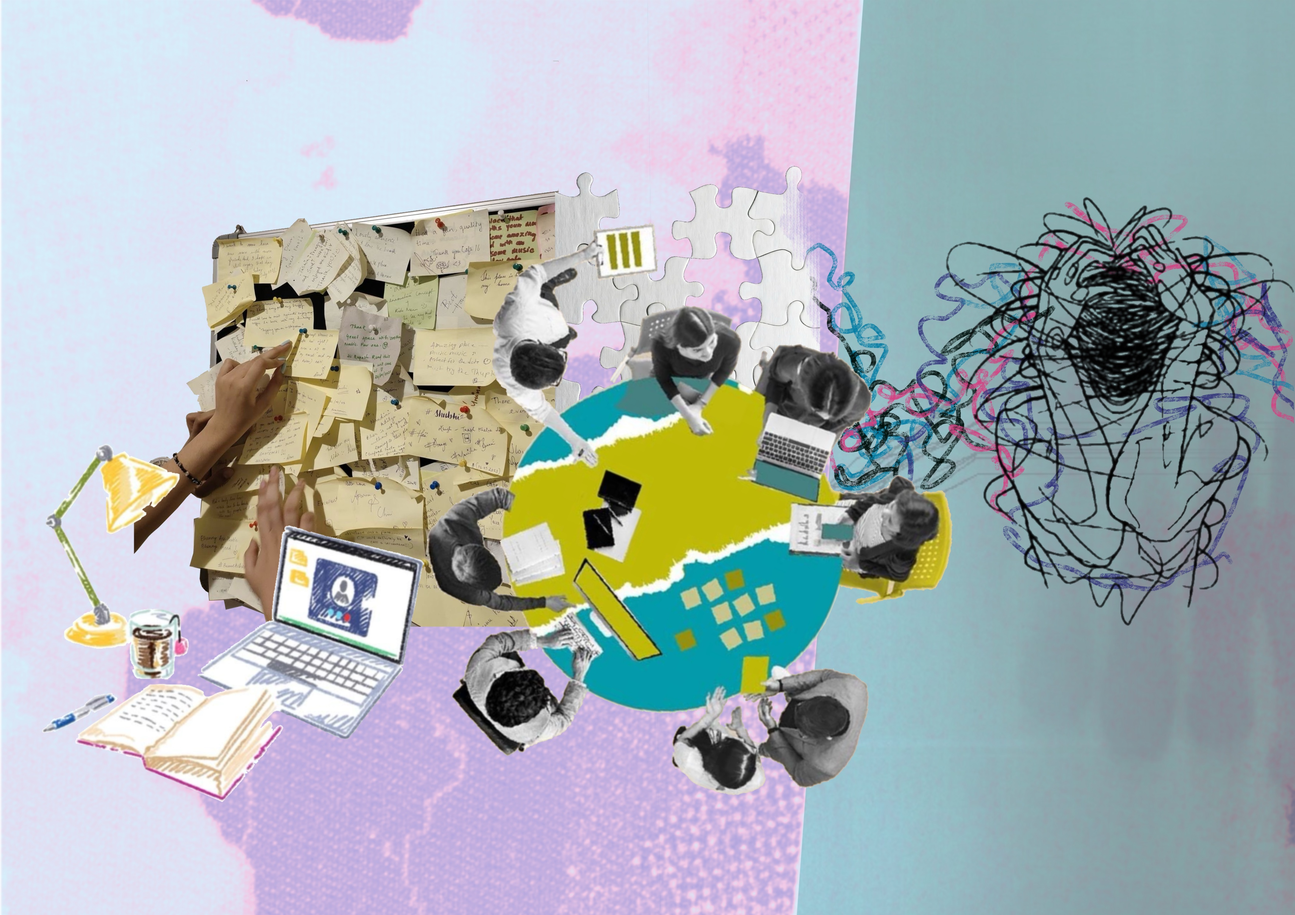
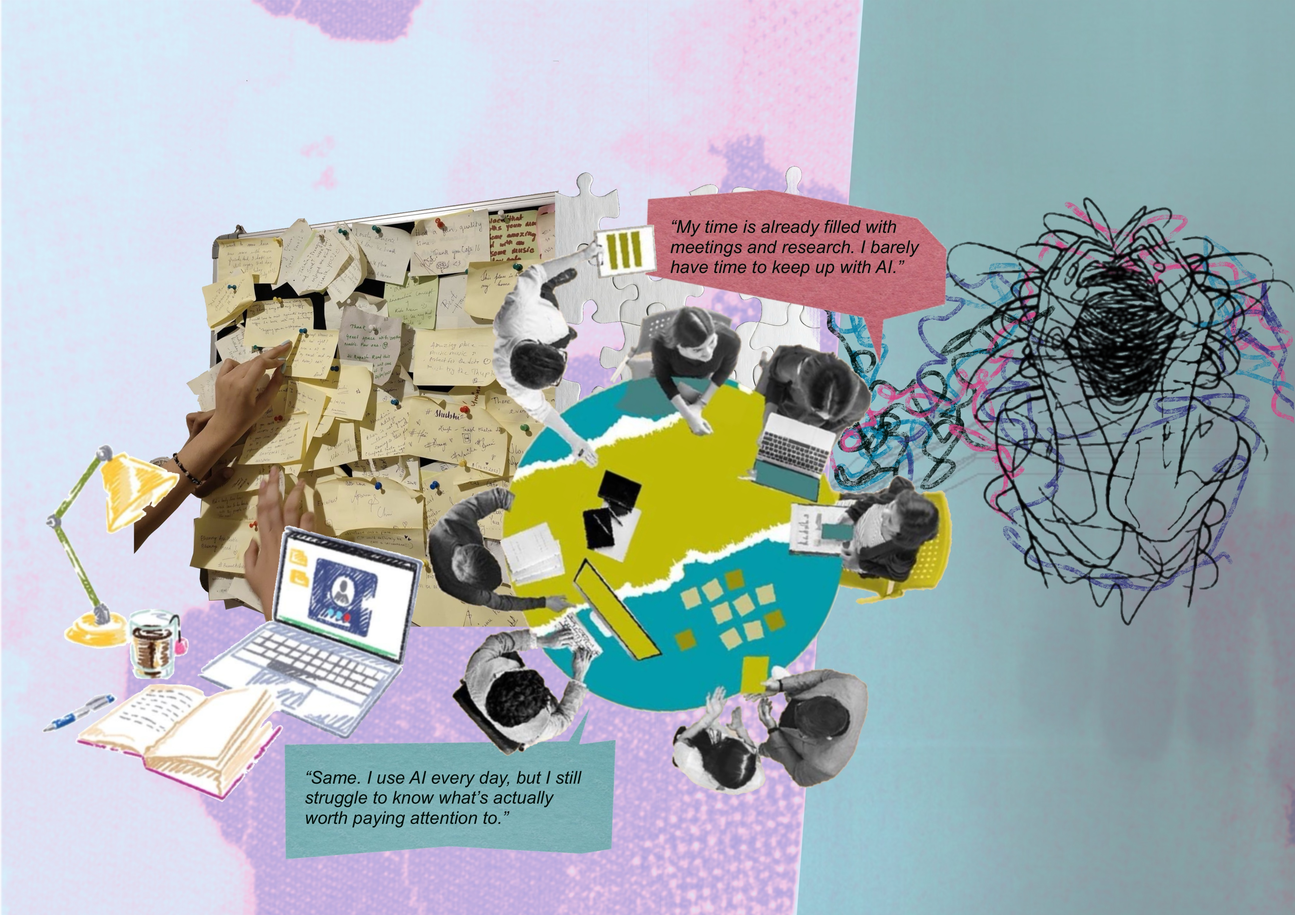
Restore the Signal cover as a sensory-sized hero and keep both quotes in frame.

Changed region(s): [[0.2175, 0.7762, 0.4971, 0.9625], [0.4971, 0.1863, 0.7457, 0.4036]]

diff --git a/src/components/project/content/SignalContent.jsx b/src/components/project/content/SignalContent.jsx
@@ -9,10 +9,6 @@ const TAGS = ['AI Product', 'Information Architecture', 'Product Design'];
 
 const IMAGES = [
   {
-    src: '/assets/Signal/cover.JPG',
-    alt: 'Signal',
-  },
-  {
     src: '/assets/Signal/signal_user_research.png',
     alt: 'User research — where they look, what makes information worth reading, and the research conclusion',
     caption:
@@ -67,11 +63,6 @@ export default function SignalContent() {
         <AutoplayVideo src="/assets/Signal/showing.mp4" controls />
       </div>
       <ProjectSection title="Overview" titleId="signal-overview" first>
-        <ProjectImage
-          src="/assets/Signal/cover.JPG"
-          alt="Signal"
-          className="signal-overview-cover"
-        />
         <p className="uos-sec-prose">
           During my time as a PM intern and a lab intern, I spent a vast amount of time bogged down
           by stifling, routine tasks, leaving me no time to stay informed about the latest

diff --git a/src/styles/project-pages.css b/src/styles/project-pages.css
@@ -19,6 +19,10 @@
   max-height: none;
 }
 
+.project-page-has-hero.project-page-signal .hero-img.hero-img-signal:not(.hero-img-ug):not(.hero-img-ideation):not(.hero-img-uos) {
+  object-position: center 80%;
+}
+
 .hero-img-ideation {
   width: 100%;
   height: calc(100vh - 11.5rem);
@@ -195,11 +199,6 @@
 .project-page-uos .uos-kf-overview img,
 .project-page-signal .proj-media img {
   cursor: zoom-in;
-}
-
-.project-page-signal .uos-sec-body .signal-overview-cover {
-  margin-top: 0;
-  margin-bottom: 32px;
 }
 
 .project-page-signal .uos-flow {

diff --git a/src/data/projects.js b/src/data/projects.js
@@ -14,7 +14,11 @@ export const projects = {
     },
     page: {
       title: 'Signal',
-      hero: null,
+      hero: {
+        src: '/assets/Signal/cover.JPG',
+        alt: 'Signal — intelligence feed',
+        className: 'hero-img hero-img-wearable hero-img-signal',
+      },
       meta: [
         { label: 'Time', value: '2026 8' },
         { label: 'Role', value: 'Product Designer' },
